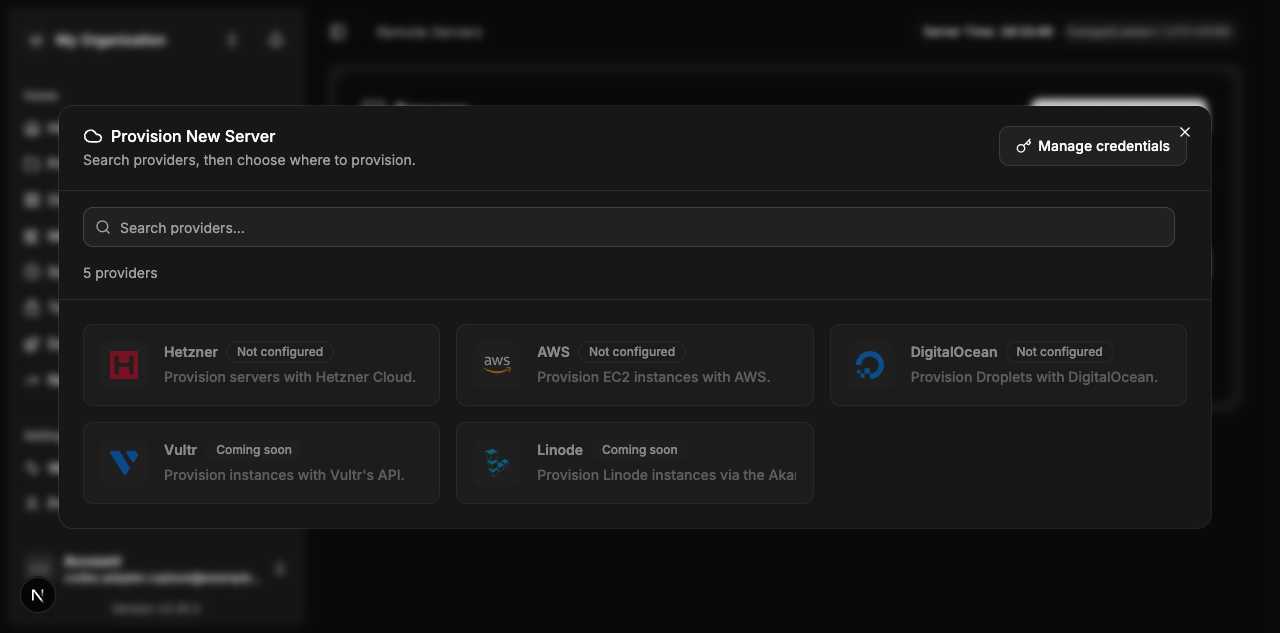
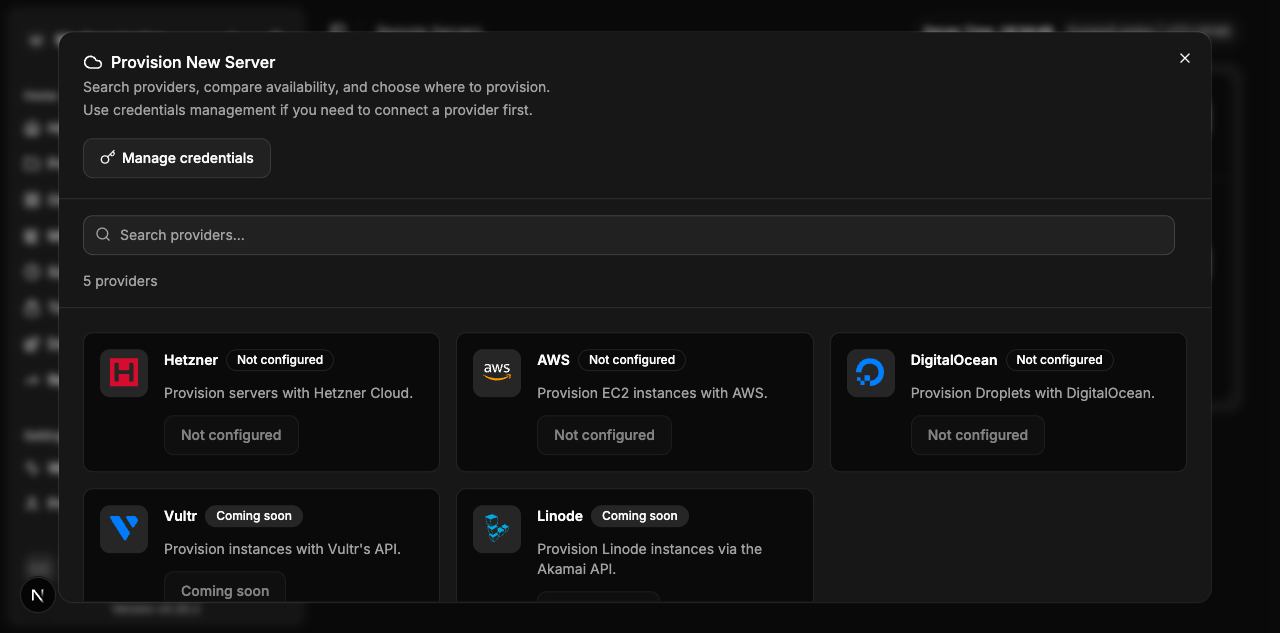
Refine provisioning modal layout

diff --git a/apps/dokploy/components/dashboard/settings/servers/provision-server-wizard.tsx b/apps/dokploy/components/dashboard/settings/servers/provision-server-wizard.tsx
@@ -78,18 +78,14 @@ const ProviderCard = ({
 			: "Coming soon";
 
 	return (
-		<Button
-			variant="outline"
-			className="h-auto w-full items-start justify-start gap-4 p-4 text-left"
-			onClick={() => onSelect(provider.id as ProviderId)}
-			disabled={disabled}
-		>
-			<div className="flex size-12 shrink-0 items-center justify-center rounded-lg bg-muted">
-				<CloudProviderLogo icon={provider.icon} className="size-7" />
-			</div>
-			<div className="flex min-w-0 flex-1 flex-col gap-1">
-				<div className="flex items-center gap-2">
-					<span className="font-semibold">{provider.label}</span>
+		<div className="rounded-lg border bg-background p-4 transition-colors hover:bg-muted/30">
+			<div className="flex items-start gap-4">
+				<div className="flex size-12 shrink-0 items-center justify-center rounded-lg bg-muted">
+					<CloudProviderLogo icon={provider.icon} className="size-7" />
+				</div>
+				<div className="flex min-w-0 flex-1 flex-col gap-3">
+					<div className="flex items-center gap-2">
+						<span className="font-semibold">{provider.label}</span>
 						<Badge
 							variant={
 								provider.availability === "supported" && hasCredentials
@@ -101,12 +97,30 @@ const ProviderCard = ({
 						>
 							{statusLabel}
 						</Badge>
+					</div>
+					<span className="line-clamp-2 text-sm text-muted-foreground">
+						{provider.description}
+					</span>
+					<Button
+						type="button"
+						variant={
+							hasCredentials && provider.availability === "supported"
+								? "default"
+								: "outline"
+						}
+						className="w-fit"
+						onClick={() => onSelect(provider.id as ProviderId)}
+						disabled={disabled}
+					>
+						{provider.availability === "supported"
+							? hasCredentials
+								? "Select"
+								: "Not configured"
+							: "Coming soon"}
+					</Button>
 				</div>
-				<span className="text-sm text-muted-foreground line-clamp-2">
-					{provider.description}
-				</span>
 			</div>
-		</Button>
+		</div>
 	);
 };
 
@@ -240,18 +254,44 @@ export const ProvisionServerWizard = () => {
 			<DialogContent className="sm:max-w-[90vw] max-h-[90vh] overflow-hidden p-0">
 				<div className="flex max-h-[90vh] min-h-0 flex-col">
 					<DialogHeader className="border-b px-6 py-5">
-						<div className="flex items-start justify-between gap-4">
+						<div className="space-y-4 pr-10">
 							<div className="space-y-1">
 								<DialogTitle className="flex items-center gap-2">
 									<CloudIcon className="size-5" />
 									Provision New Server
 								</DialogTitle>
-								<DialogDescription>
-									{step === "provider"
-										? "Search providers, then choose where to provision."
-										: selectedProviderDefinition
-											? `Configure your ${selectedProviderDefinition.label} server`
-											: "Configure your new server"}
+								<DialogDescription className="leading-relaxed">
+									{step === "provider" ? (
+										<>
+											<span className="block">
+												Search providers, compare availability, and choose where to
+												provision.
+											</span>
+											<span className="block">
+												Use credentials management if you need to connect a provider
+												first.
+											</span>
+										</>
+									) : selectedProviderDefinition ? (
+										<>
+											<span className="block">
+												Configure your {selectedProviderDefinition.label} server and
+												continue.
+											</span>
+											<span className="block">
+												Then pick the location, size, and image for the server.
+											</span>
+										</>
+									) : (
+										<>
+											<span className="block">
+												Configure your new server and continue.
+											</span>
+											<span className="block">
+												Then pick the location, size, and image for the server.
+											</span>
+										</>
+									)}
 								</DialogDescription>
 							</div>
 
